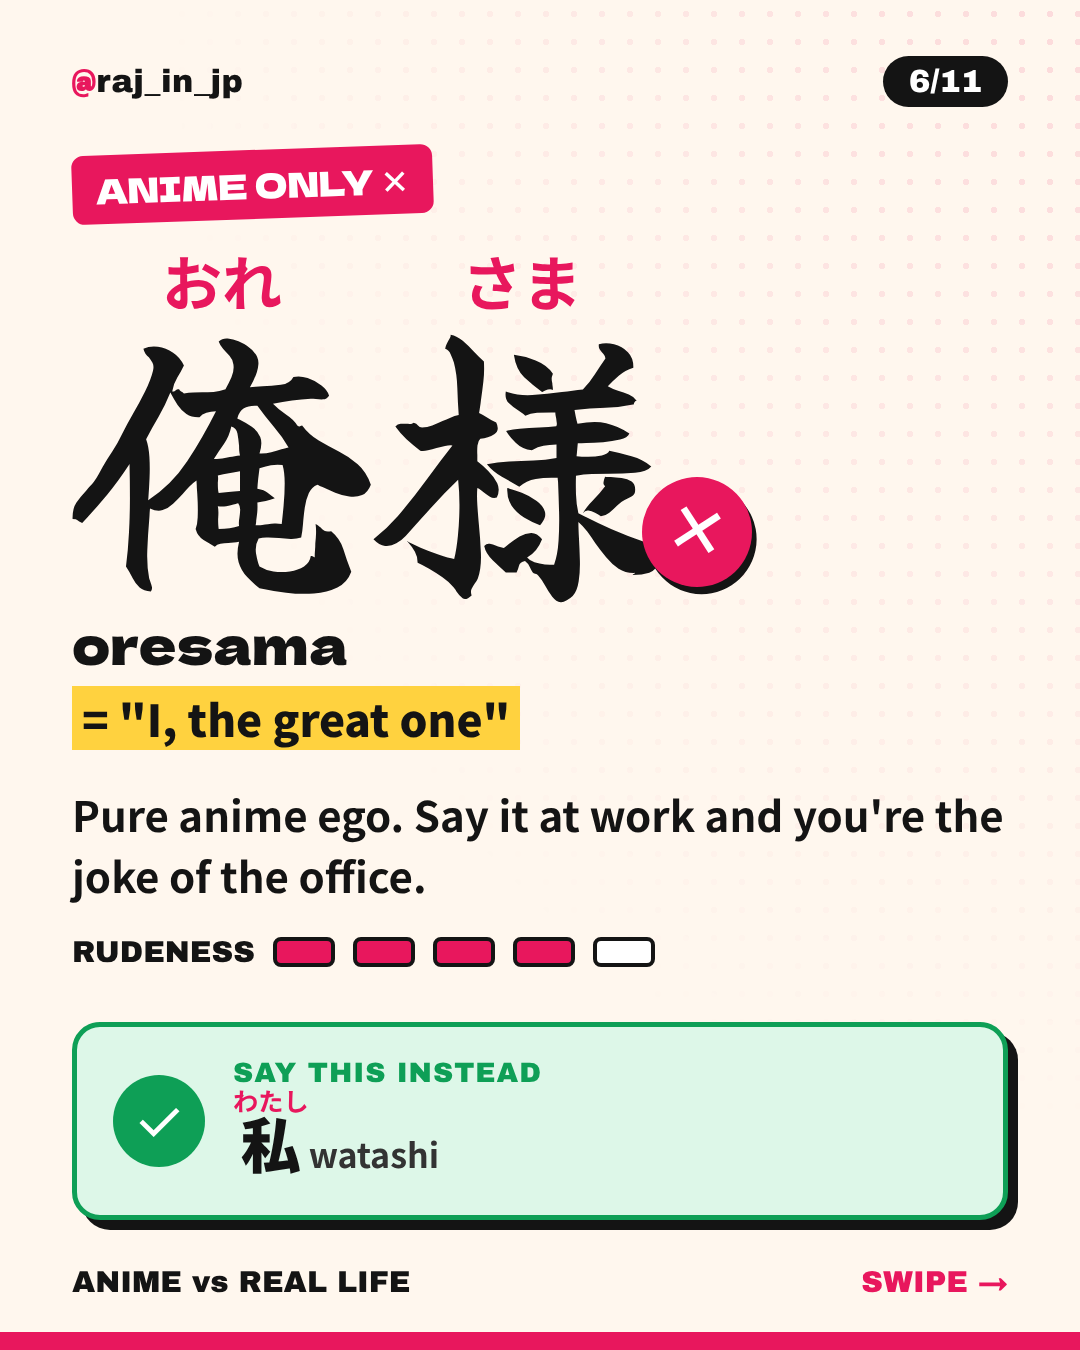
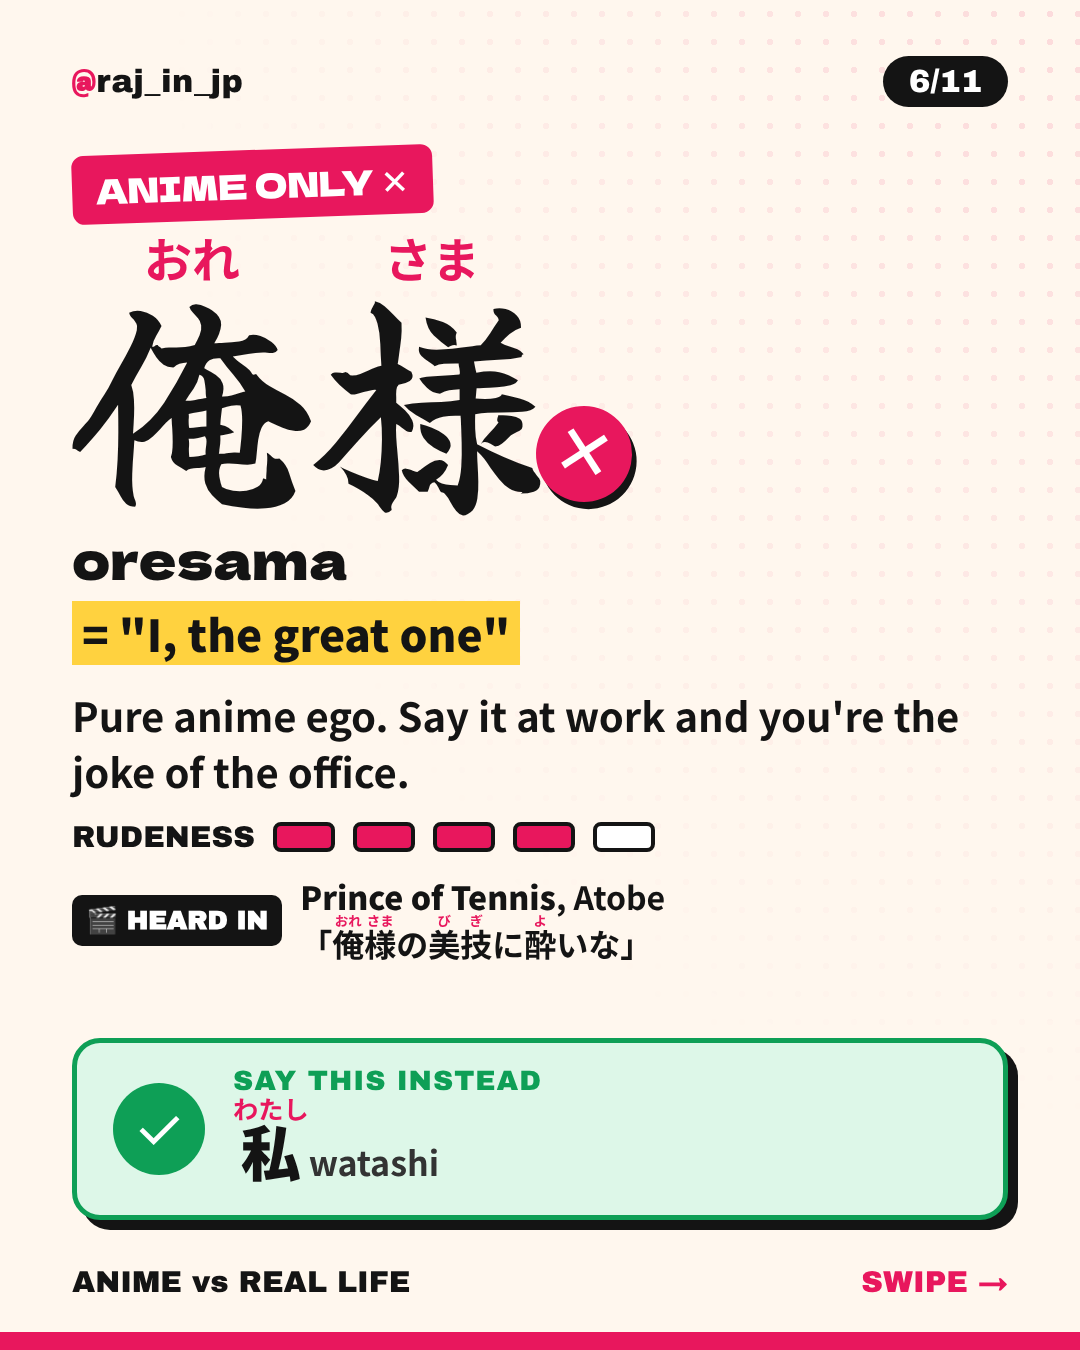
Add "Heard in" anime references to carousel word slides
Each word slide now names a well-known character who says it
(Kenshiro, Bakugo, Vegeta, Atobe, Jotaro, Kenshin), as text only.

Claude-Session: https://claude.ai/code/session_01EaoD2uAGWmKnrxvvdunxK2

Changed region(s): [[0.0611, 0.1556, 0.9472, 0.7156], [0.0611, 0.7467, 0.9472, 0.8711]]

diff --git a/instagram/carousels/anime-japanese/build.py b/instagram/carousels/anime-japanese/build.py
@@ -45,23 +45,27 @@ rt{font-family:NotoJP,sans-serif;font-weight:700;font-size:.42em;color:var(--pin
 ruby{ruby-align:center}
 .bubble rt{font-size:.24em}
 /* content slide */
+.heard{margin-top:22px;display:flex;align-items:center;gap:18px;font-weight:700;font-size:32px;line-height:1.35}
+.heard span{flex:none;font-family:Archivo,'Noto Color Emoji';font-size:26px;background:var(--ink);color:#fff;border-radius:10px;padding:8px 14px}
+.heard b{font-weight:900}
+
 .pic{position:absolute;right:-30px;top:10px;width:290px;height:380px;object-fit:cover;border-radius:28px;border:6px solid var(--ink);box-shadow:10px 10px 0 var(--pink);transform:rotate(3deg);z-index:1}
 
 .c{position:absolute;top:150px;left:72px;right:72px;bottom:130px;display:flex;flex-direction:column}
 .tag{display:inline-block;align-self:flex-start;font-family:Dela;font-size:34px;background:var(--pink);color:#fff;padding:10px 24px;border-radius:12px;transform:rotate(-2deg)}
-.wordrow{display:flex;align-items:center;gap:36px;margin-top:34px}
-.word{font-family:Brush;font-size:300px;line-height:1;position:relative}
-.word.long{font-size:210px}
-.x{z-index:3;position:absolute;right:-80px;bottom:10px;width:110px;height:110px;border-radius:50%;background:var(--pink);color:#fff;font-family:Archivo;font-size:70px;
+.wordrow{display:flex;align-items:center;gap:36px;margin-top:16px}
+.word{font-family:Brush;font-size:240px;line-height:1;position:relative}
+.word.long{font-size:180px}
+.x{z-index:3;position:absolute;right:-80px;bottom:10px;width:96px;height:96px;border-radius:50%;background:var(--pink);color:#fff;font-family:Archivo;font-size:70px;
   display:flex;align-items:center;justify-content:center;transform:rotate(12deg);box-shadow:6px 6px 0 var(--ink)}
 .romaji{font-family:Dela;font-size:52px;margin-top:8px}
 .mean{font-family:NotoJP;font-weight:900;font-size:44px;margin-top:6px}
 .mean span{background:var(--yellow);padding:0 10px}
-.desc{font-weight:700;font-size:42px;line-height:1.45;margin-top:34px}
-.meter{display:flex;align-items:center;gap:18px;margin-top:30px;font-family:Archivo;font-size:30px}
+.desc{font-weight:700;font-size:40px;line-height:1.4;margin-top:22px}
+.meter{display:flex;align-items:center;gap:18px;margin-top:22px;font-family:Archivo;font-size:30px}
 .meter i{display:inline-block;width:62px;height:30px;border-radius:8px;border:4px solid var(--ink);background:#fff}
 .meter i.on{background:var(--pink)}
-.say{margin-top:auto;background:var(--green2);border:5px solid var(--green);border-radius:28px;padding:30px 36px;display:flex;align-items:center;gap:28px;box-shadow:10px 10px 0 var(--ink)}
+.say{margin-top:auto;background:var(--green2);border:5px solid var(--green);border-radius:28px;padding:22px 36px;display:flex;align-items:center;gap:28px;box-shadow:10px 10px 0 var(--ink)}
 .say .ok{flex:none;width:92px;height:92px;border-radius:50%;background:var(--green);color:#fff;font-family:Archivo;font-size:58px;display:flex;align-items:center;justify-content:center}
 .say small{display:block;font-family:Archivo;font-size:28px;color:var(--green);letter-spacing:1px}
 .say b{font-family:NotoJP;font-weight:900;font-size:60px}
@@ -84,11 +88,12 @@ def meter(label, n):
     return f'<div class="meter">{label} {cells}</div>'
 
 
-def word_slide(n, word, romaji, meaning, desc, mlabel, mval, say=None, say_note="", never=None, long=False):
+def word_slide(n, word, romaji, meaning, desc, mlabel, mval, say=None, say_note="", never=None, long=False, heard=None):
     if say:
         bottom = f'<div class="say"><div class="ok">✓</div><div><small>SAY THIS INSTEAD</small><b>{say}</b><em>{say_note}</em></div></div>'
     else:
         bottom = f'<div class="no">{never[0]}<small>{never[1]}</small></div>'
+    heard_html = (f'<div class="heard"><span>🎬 HEARD IN</span>{heard}</div>' if heard else "")
     pic = img(f"s{n:02d}.png")
     pic_html = f'<img class="pic" src="{pic}">' if pic else ""
     inner = f"""<div class="c">{pic_html}
@@ -98,6 +103,7 @@ def word_slide(n, word, romaji, meaning, desc, mlabel, mval, say=None, say_note=
 <div class="mean"><span>{meaning}</span></div>
 <div class="desc">{desc}</div>
 {meter(mlabel, mval)}
+{heard_html}
 {bottom}
 </div>"""
     return frame(n, inner)
@@ -143,22 +149,28 @@ slides.append(frame(2, f"""<div class="c">
 # 3-8 words
 slides.append(word_slide(3, "お前", "omae", '= "you"',
     "Every anime rival says it. Between close friends it's fine. To anyone above you, it's rude.",
-    "RUDENESS", 3, say="名前 + さん", say_note="their name + san"))
+    "RUDENESS", 3, say="名前 + さん", say_note="their name + san",
+    heard="<div><b>Fist of the North Star</b>, Kenshiro<br>「お前はもう死んでいる」</div>"))
 slides.append(word_slide(4, "てめえ", "temee", '= a rougher "you"',
     "This is how anime characters talk right before a fight. In real life, these are fighting words too.",
-    "RUDENESS", 5, never=("Just don't. ✕", "No polite version. Use their name + さん."), long=True))
+    "RUDENESS", 5, never=("Just don't. ✕", "No polite version. Use their name + さん."), long=True,
+    heard="<div><b>My Hero Academia</b>, Bakugo<br>to almost everyone</div>"))
 slides.append(word_slide(5, "貴様", "kisama", '= "you"',
     "Centuries ago it was respectful. Today it sounds like pure hate. Villains love it.",
-    "RUDENESS", 5, say="名前 + さん", say_note="their name + san"))
+    "RUDENESS", 5, say="名前 + さん", say_note="their name + san",
+    heard="<div><b>Dragon Ball Z</b>, Vegeta<br>usually yelling at Goku</div>"))
 slides.append(word_slide(6, "俺様", "oresama", '= "I, the great one"',
     "Pure anime ego. Say it at work and you're the joke of the office.",
-    "RUDENESS", 4, say="私", say_note="watashi"))
+    "RUDENESS", 4, say="私", say_note="watashi",
+    heard="<div><b>Prince of Tennis</b>, Atobe<br>「俺様の美技に酔いな」</div>"))
 slides.append(word_slide(7, "だぜ", "daze", "= tough-guy ending",
     "Sounds cool in a shounen fight. At a shop counter it sounds like you're doing a bad impression.",
-    "CRINGE", 4, say="です", say_note="desu"))
+    "CRINGE", 4, say="です", say_note="desu",
+    heard="<div><b>JoJo's Bizarre Adventure</b>, Jotaro<br>「やれやれだぜ」</div>"))
 slides.append(word_slide(8, "拙者", "sessha · <span class='jp' style='font-weight:700'>でござる</span>", "= samurai speech",
     "Straight out of a samurai anime. Use it in real life and people will laugh, kindly but loudly.",
-    "CRINGE", 5, say="私 · です", say_note="watashi · desu"))
+    "CRINGE", 5, say="私 · です", say_note="watashi · desu",
+    heard="<div><b>Rurouni Kenshin</b>, Kenshin<br>in every single episode</div>"))
 
 # 9 RECAP
 rows = [("お前・てめえ・貴様", "名前 + さん"), ("俺様・拙者", "私"), ("だぜ・でござる", "です")]
@@ -212,6 +224,9 @@ FURI = [
     ("俺様", "<ruby>俺<rt>おれ</rt>様<rt>さま</rt></ruby>"),
     ("拙者", "<ruby>拙<rt>せっ</rt>者<rt>しゃ</rt></ruby>"),
     ("田中", "<ruby>田<rt>た</rt>中<rt>なか</rt></ruby>"),
+    ("死んで", "<ruby>死<rt>し</rt></ruby>んで"),
+    ("美技", "<ruby>美<rt>び</rt>技<rt>ぎ</rt></ruby>"),
+    ("酔いな", "<ruby>酔<rt>よ</rt></ruby>いな"),
     ("私", "<ruby>私<rt>わたし</rt></ruby>"),
 ]
 body = "".join(slides)
